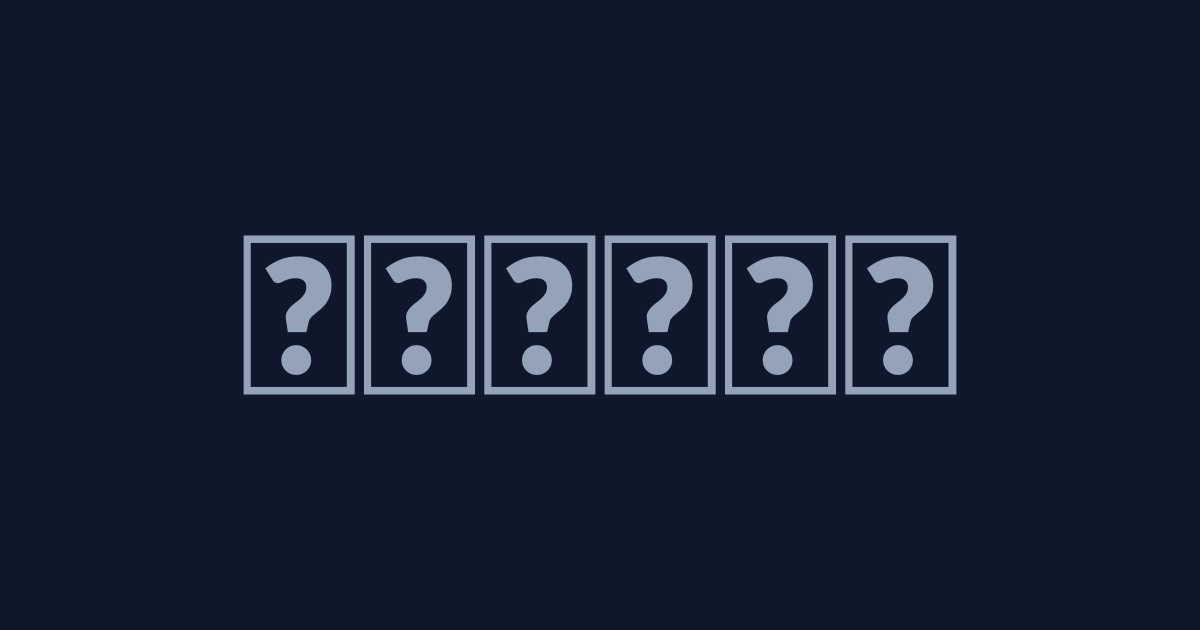
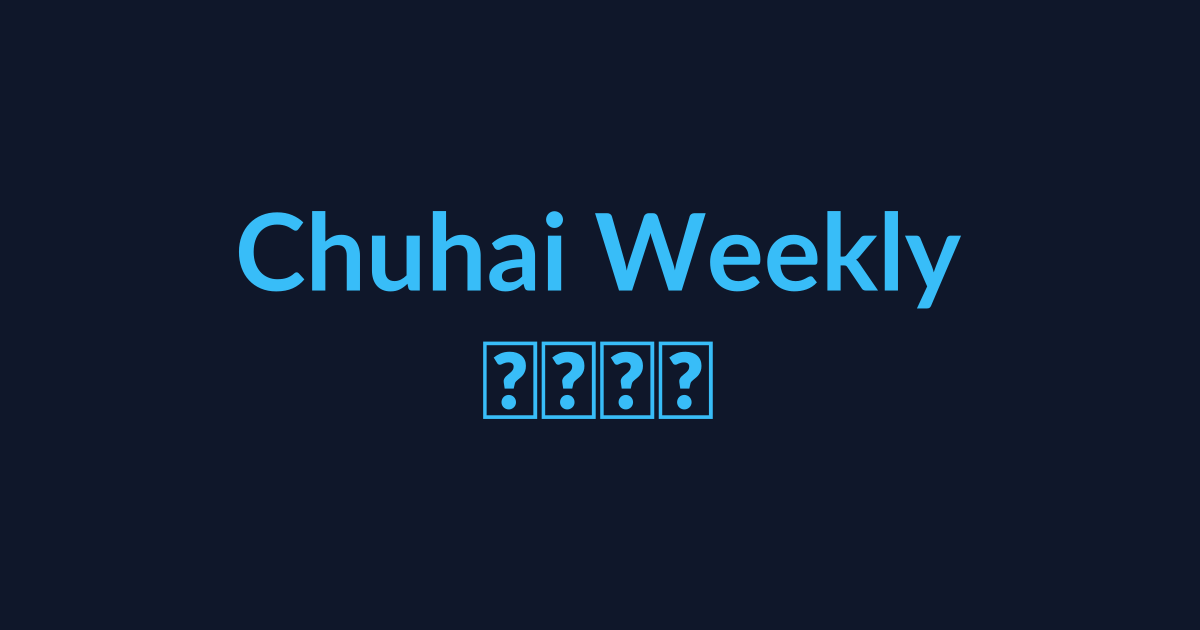
feat:udpate

Changed region(s): [[0.185, 0.3317, 0.8017, 0.6635]]

diff --git a/components/SiteBrand.vue b/components/SiteBrand.vue
@@ -1,0 +1,58 @@
+<script setup lang="ts">
+import logoMarkSrc from '~/assets/brand/logo-mark.svg?url'
+
+withDefaults(
+  defineProps<{
+    variant?: 'on-dark' | 'on-light'
+    showTagline?: boolean
+    size?: 'default' | 'compact'
+  }>(),
+  {
+    variant: 'on-dark',
+    showTagline: true,
+    size: 'default',
+  },
+)
+</script>
+
+<template>
+  <NuxtLink
+    to="/"
+    class="group flex items-center gap-2.5 sm:gap-3"
+    :aria-label="showTagline ? '出海周刊 Chuhai Weekly 首页' : '出海周刊 首页'"
+  >
+    <img
+      :src="logoMarkSrc"
+      alt=""
+      width="40"
+      height="40"
+      :class="[
+        'shrink-0 transition duration-200 group-hover:brightness-110',
+        size === 'compact' ? 'h-8 w-8' : 'h-9 w-9 sm:h-10 sm:w-10',
+      ]"
+      fetchpriority="high"
+      decoding="async"
+    />
+    <span class="flex min-w-0 flex-col leading-tight">
+      <span
+        class="font-display font-semibold tracking-tight"
+        :class="[
+          size === 'compact' ? 'text-base sm:text-lg' : 'text-lg sm:text-xl',
+          variant === 'on-dark' ? 'text-white' : 'text-slate-900',
+        ]"
+      >
+        出海周刊
+      </span>
+      <span
+        v-if="showTagline"
+        class="font-medium uppercase tracking-[0.2em] text-sky-500"
+        :class="[
+          size === 'compact' ? 'text-[9px] sm:text-[10px]' : 'text-[10px] sm:text-[11px]',
+          variant === 'on-dark' ? 'text-sky-400/95' : 'text-sky-600',
+        ]"
+      >
+        Chuhai Weekly
+      </span>
+    </span>
+  </NuxtLink>
+</template>

diff --git a/pages/index.vue b/pages/index.vue
@@ -2,7 +2,7 @@
 const config = useRuntimeConfig()
 const canonical = useCanonicalUrl('/')
 
-const title = '跨境电商观察 · 平台运营、独立站、物流与合规'
+const title = '出海周刊 · 平台运营、独立站、物流与合规'
 const description =
   '系统化的跨境电商内容站：覆盖亚马逊等平台运营、Shopify 独立站、跨境物流、支付风控、欧盟税务与市场趋势。每篇文章附可执行清单与结构化检索。'
 
@@ -107,7 +107,7 @@ useJsonLd([
             class="mt-6 font-display text-4xl font-bold tracking-tight text-white sm:text-5xl"
           >
             面向卖家与品牌的
-            <span class="text-sky-300">跨境电商知识库</span>
+            <span class="text-sky-300">跨境出海知识库</span>
           </h1>
           <p class="mt-6 text-lg leading-relaxed text-slate-300">
             从平台运营到独立站、从物流履约到合规税务，用长文、清单与可检索结构，帮助你把「经验」变成「可复盘的流程」。

diff --git a/components/AppHeader.vue b/components/AppHeader.vue
@@ -33,20 +33,7 @@ watch(
       class="mx-auto flex w-full max-w-[88rem] flex-col gap-4 px-5 py-4 sm:flex-row sm:items-center sm:justify-between lg:px-14"
     >
       <div class="flex items-center gap-10">
-        <NuxtLink
-          to="/"
-          class="group flex items-center gap-2 font-display text-lg font-semibold tracking-tight text-white"
-        >
-          <span
-            class="flex h-9 w-9 items-center justify-center rounded-xl bg-sky-500/15 text-sm font-bold text-sky-300 ring-1 ring-sky-400/30"
-            aria-hidden="true"
-          >
-            KJ
-          </span>
-          <span class="group-hover:text-sky-200 transition-colors">
-            跨境电商观察
-          </span>
-        </NuxtLink>
+        <SiteBrand variant="on-dark" />
         <nav
           class="hidden items-center gap-1 text-sm font-medium text-slate-300 xl:flex"
           aria-label="主导航"

diff --git a/components/AppFooter.vue b/components/AppFooter.vue
@@ -13,11 +13,9 @@ const { data: categories } = await useFetch('/api/nav/categories', {
       class="mx-auto grid w-full max-w-[88rem] gap-10 px-5 py-14 sm:px-8 lg:grid-cols-4 lg:gap-12 lg:px-14"
     >
       <div class="space-y-4">
-        <div class="font-display text-lg font-semibold text-slate-900">
-          跨境电商观察
-        </div>
+        <SiteBrand variant="on-light" />
         <p class="text-sm leading-relaxed text-slate-600">
-          面向卖家与品牌方的内容型站点：平台运营、独立站增长、物流履约、支付风控与合规税务。中立、可检索、可复盘。
+          面向卖家与品牌方：平台运营、独立站增长、物流履约、支付风控与合规税务。中立、可检索、可复盘。
         </p>
       </div>
       <div>

diff --git a/nuxt.config.ts b/nuxt.config.ts
@@ -26,9 +26,9 @@ export default defineNuxtConfig({
   runtimeConfig: {
     public: {
       siteUrl,
-      siteName: '跨境电商观察',
+      siteName: '出海周刊',
       siteDescription:
-        '面向卖家与品牌的跨境电商内容站：平台运营、独立站、物流、支付合规与市场洞察，系统化梳理可执行策略与中立工具信息。',
+        'Chuhai Weekly（chuhaiweekly.com）：面向卖家与品牌的跨境电商内容周刊——平台运营、独立站、物流、合规与市场洞察，系统化梳理可执行策略与中立信息。',
     },
   },
 

diff --git a/pages/category/[slug].vue b/pages/category/[slug].vue
@@ -11,13 +11,14 @@ if (error.value || !data.value) {
 const entity = data.value.entity
 const items = data.value.items
 
+const config = useRuntimeConfig()
 const origin = useSiteOrigin()
 const canonical = computed(() => `${origin.value}/category/${slug}`)
 
 useSeoMeta({
   title: `${entity.title} · 频道`,
   description: entity.description,
-  ogTitle: `${entity.title} · 跨境电商观察`,
+  ogTitle: `${entity.title} · ${config.public.siteName}`,
   ogDescription: entity.description,
   ogUrl: canonical,
 })

diff --git a/pages/search/index.vue b/pages/search/index.vue
@@ -9,9 +9,9 @@ const { data } = await useFetch(
 
 const results = computed(() => data.value?.results ?? [])
 
-const title = '站内搜索 · 跨境电商观察'
+const title = '站内搜索 · 出海周刊'
 const description =
-  '按标题、摘要与标签搜索跨境电商观察站内的文章与专题段落。'
+  '按标题、摘要与标签搜索出海周刊（Chuhai Weekly）站内的文章与专题段落。'
 
 const canonical = useCanonicalUrl('/search')
 
